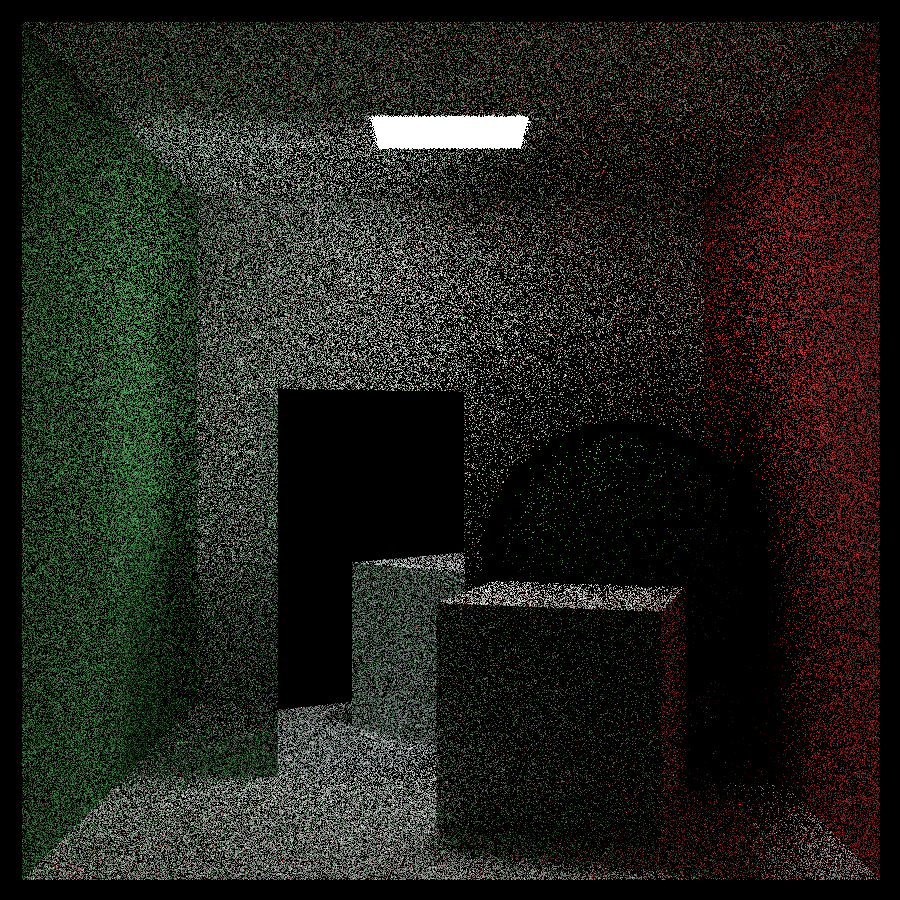
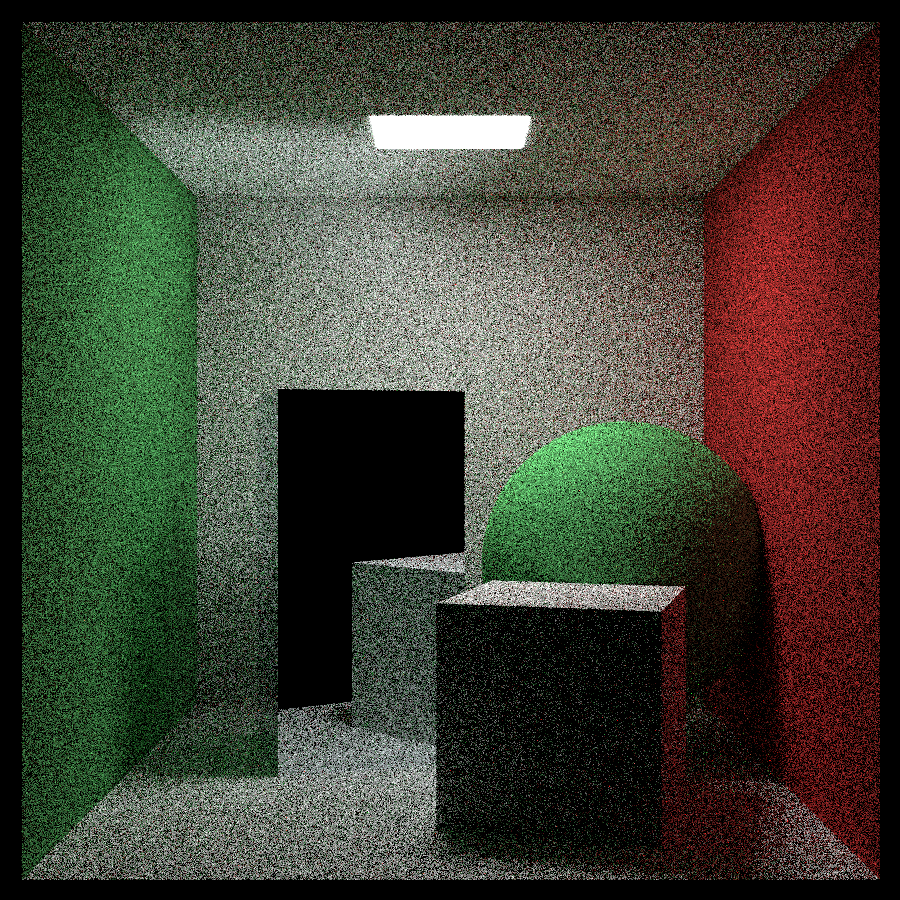
high roughness fixed?

diff --git a/src/bsdf/mod.rs b/src/bsdf/mod.rs
@@ -31,13 +31,13 @@ impl BRDF {
     fn sample(&self, v_local: Vec3, n_local: Vec3) -> Vec3 {
         let _ = n_local;
         let (f0, cspec0, csheen) = self.tint_colors();
-        let (_, _) = (f0, csheen);
+        // let (_, _) = (f0, csheen);
 
         // weights and probabilities
         let dielectric_wt = 1.0 - self.metallic;
         let metal_wt = self.metallic;
 
-        let f = schlick_fresnel(v_local.z);
+        let f = schlick_weight(v_local.z);
 
         let diffuse_p = dielectric_wt * self.base_color.luminance();
         let dielectric_p = dielectric_wt * cspec0.lerp(Vec3::ONE, f).luminance();
@@ -99,7 +99,7 @@ impl BRDF {
         let dielectric_wt = 1.0 - self.metallic;
         let metal_wt = self.metallic;
 
-        let f = schlick_fresnel(v_local.z);
+        let f = schlick_weight(v_local.z);
 
         let diffuse_p = dielectric_wt * self.base_color.luminance();
         let dielectric_p = dielectric_wt * cspec0.lerp(Vec3::ONE, f).luminance();
@@ -114,7 +114,7 @@ impl BRDF {
         let v_dot_h = v_local.dot(h_local).abs();
 
         // Diffuse
-        if diffuse_p > 0.0 && should_reflect {
+        if diffuse_p > 0.0 {
             let (res_brdf, res_pdf) = self.eval_diffuse(csheen, v_local, l_local, h_local);
             brdf += res_brdf * dielectric_wt;
             pdf += res_pdf * diffuse_p;
@@ -130,7 +130,7 @@ impl BRDF {
         }
 
         if metal_p > 0.0 && should_reflect {
-            let metal_f = schlick_fresnel(v_dot_h);
+            let metal_f = schlick_weight(v_dot_h);
             let metal_color = self.base_color.lerp(Vec3::ONE, metal_f);
             let (res_brdf, res_pdf) =
                 self.eval_microfacet_reflection(v_local, l_local, h_local, metal_color);
@@ -175,29 +175,27 @@ impl BRDF {
         l_local: Vec3,
         h_local: Vec3,
     ) -> (Vec3, f64) {
-        if l_local.z <= 0.0 {
-            return (Vec3::ZERO, 0.0);
-        }
-
         let l_dot_h = l_local.dot(h_local);
+
+        // diffuse
+        let fl = schlick_weight(l_local.z);
+        let fv = schlick_weight(v_local.z);
+
         let rr = 2.0 * self.roughness * l_dot_h * l_dot_h;
 
-        let fl = schlick_fresnel(l_local.z);
-        let fv = schlick_fresnel(v_local.z);
+        let f_lambert = 1.0;
         let f_retro = rr * (fl + fv + fl * fv * (rr - 1.0));
-        let fd = (1.0 - 0.5 * fl) * (1.0 - 0.5 * fv);
 
-        let f_ss90 = 0.5 * rr;
-        let f_ss = 1.0.lerp(f_ss90, fl) * 1.0.lerp(f_ss90, fv);
-        let ss = 1.25 * (f_ss * (1.0 / (l_local.z + v_local.z) - 0.5) + 0.5);
+        let subsurface_approx = f_lambert; // TODO thin surfaces???
 
-        let fh = schlick_fresnel(l_dot_h);
-        let f_sheen = fh * self.sheen * csheen;
-
+        // sheen
+        let f_h = schlick_weight(l_dot_h);
+        let sheen = self.sheen * csheen * f_h;
+        
+        let brdf = self.base_color
+            * PI.recip()
+            * (f_retro + subsurface_approx * (1.0 - 0.5 * fl) * (1.0 - 0.5 * fv)) + sheen;
         let pdf = l_local.z * PI.recip();
-        let brdf =
-            PI.recip() * self.base_color * (fd + f_retro).lerp(ss, self.subsurface) + f_sheen;
-
         (brdf, pdf)
     }
 
@@ -212,12 +210,12 @@ impl BRDF {
 
         let f0 = ((1.0 - eta) / (1.0 + eta)).powi(2);
         let cspec0 = f0 * ctint.lerp(Vec3::ONE, self.specular_tint);
-        let csheen = ctint.lerp(Vec3::ONE, self.sheen_tint);
+        let csheen = Vec3::ONE.lerp(ctint, self.sheen_tint);
         (f0, cspec0, csheen)
     }
 }
 
-fn schlick_fresnel(cos_theta: f64) -> f64 {
+fn schlick_weight(cos_theta: f64) -> f64 {
     let m = (1.0 - cos_theta).max(0.0);
     m.powi(5)
 }

diff --git a/src/main.rs b/src/main.rs
@@ -313,7 +313,7 @@ fn cornell_box_scene() {
     let diffuse_brdf = MaterialType::BRDFMat(BRDF {
         base_color: Vec3::new(0.12, 0.45, 0.15),
         metallic: 0.001,
-        roughness: 0.001,
+        roughness: 0.801,
         subsurface: 0.0,
         spec_trans: 0.0,
         specular_tint: 0.0,
